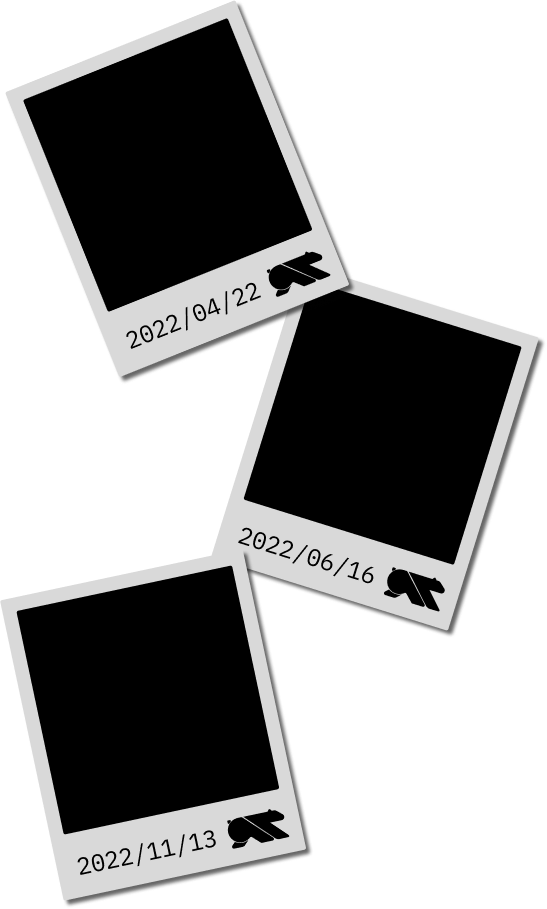
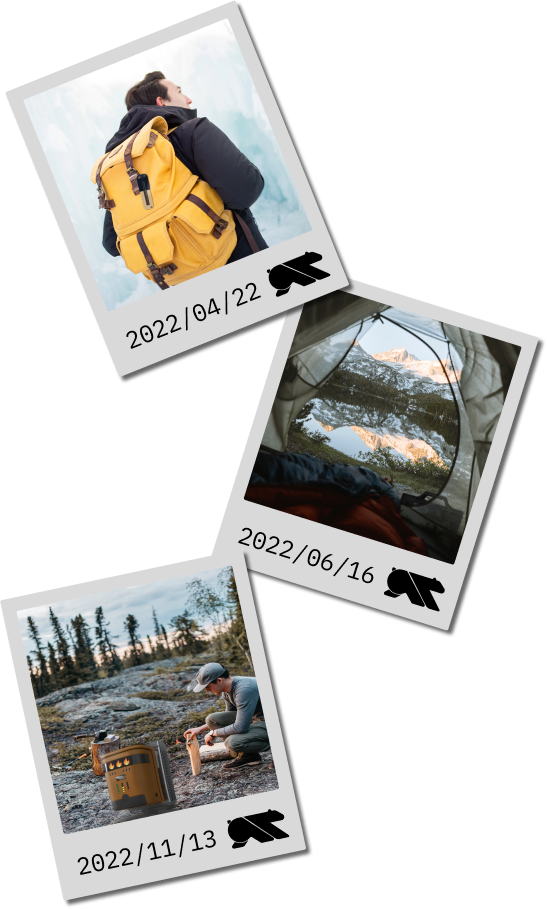
added polaroids+new bg footer image

Changed region(s): [[0.0311, 0.6161, 0.5283, 0.9241], [0.0311, 0.0, 0.5594, 0.3388], [0.4351, 0.308, 0.9634, 0.6161]]

diff --git a/public/index.html b/public/index.html
@@ -593,13 +593,12 @@
             sanna natur.
           </div>
 
-          <img src="assets/polaroid-group.png" alt="polaroids" class="w-full md:hidden">
+          <img src="assets/polaroid_mobile.png" alt="polaroids" class="md:hidden w-full">
         </div>
           <img src="assets/polaroid_desktop.png" alt="polaroids" class="hidden md:flex">
     </section>
-  </main>
     <!-- Footer page -->
-    <section class="w-full bg-[url('assets/berg_footer.png')] md:bg-[url('assets/lastcall_bild.png')] bg-cover bg-center">
+    <section class="w-full bg-[url('assets/bergfooter_nobg.png')] md:bg-[url('assets/lastcall_nobg.png')] bg-cover bg-center">
       <!-- Last call text/button -->
       <div class="md:mx-auto md:max-w-[90rem] md:px-24">
       <div class="mx-8 flex flex-col items-center gap-12 pt-14">
@@ -661,11 +660,11 @@
                 <div class="justify-left flex flex-row items-center gap-4">
                   <img
                     id="logo-pro-tech"
-                    src="assets/logo.png"
+                    src="assets/logo-PT-white-DESKTOP.png"
                     alt="Pro-Tech logo text" />
                   <img
                     id="logo-bear"
-                    src="assets/logo_bjorn.png"
+                    src="assets/logo-bear-white-DESKTOP.png"
                     alt="Pro-Tech logo bear" />
                 </div>
                 <div class="mt-4 font-IBM leading-tight tracking-wider text-sm text-white">
@@ -699,9 +698,9 @@
           </div>
           <div
             class="swiper-pagination absolute bottom-0 w-full text-center"></div>
-        </div>
+          </div>
+        </footer>
       </section>
-
-
+    </main>
   </body>
 </html>
